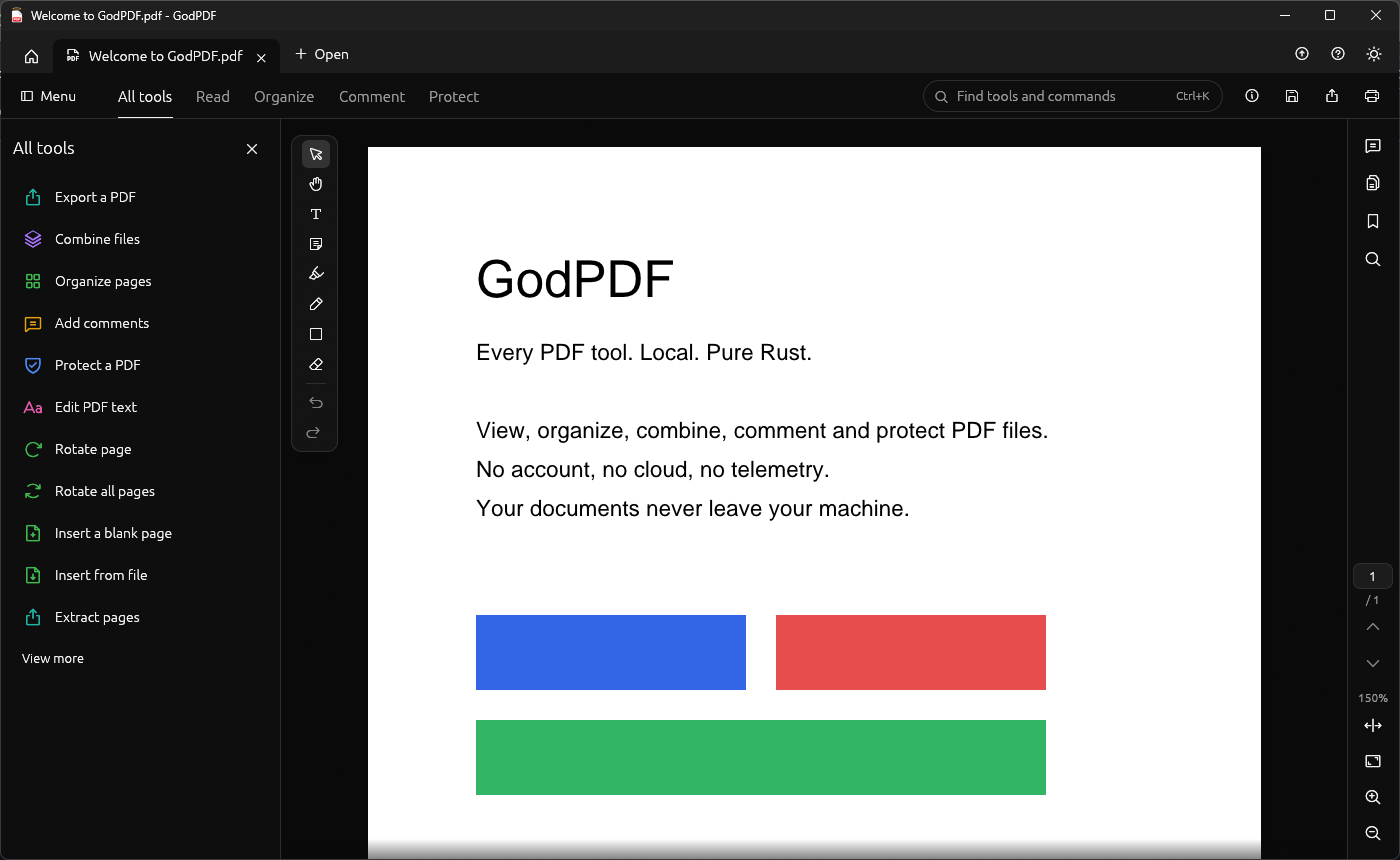
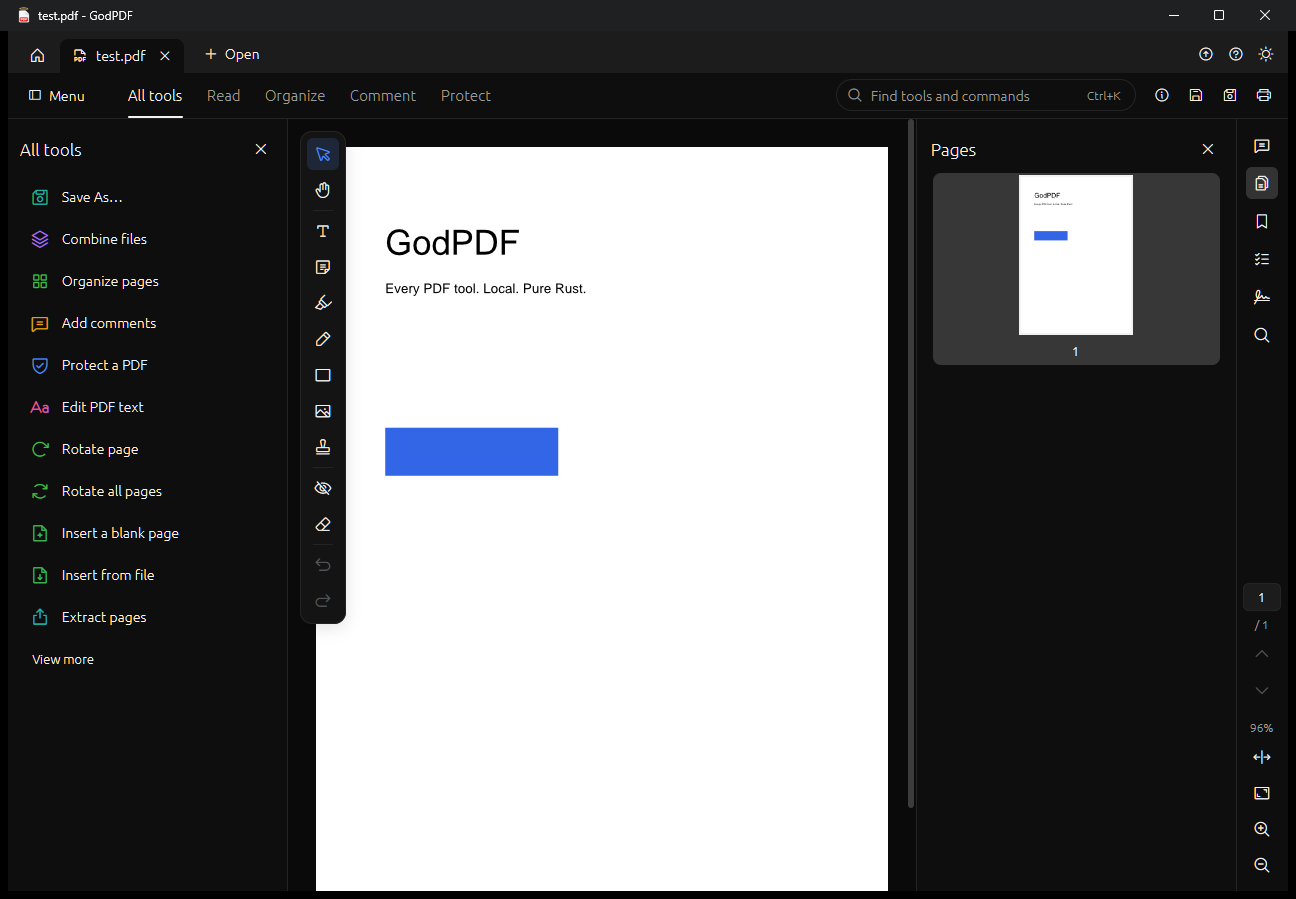
docs: new README and screenshot, version 2.0.0

diff --git a/README.md b/README.md
@@ -1,51 +1,80 @@
-<p align="center"><img src="assets/logo.png" width="160" alt="GodPDF logo"></p>
+<p align="center">
+  <img src="assets/logo.png" width="128" alt="GodPDF logo">
+</p>
 
 <h1 align="center">GodPDF</h1>
-<p align="center">Every PDF tool. Local. Pure Rust.</p>
+
+<p align="center">
+  <b>Every PDF tool. Local. Pure Rust.</b><br>
+  View, edit, sign, organize and protect PDF files on your own machine.
+</p>
+
+<p align="center">
+  <a href="https://github.com/0XLUC4/GodPDF/releases/latest"><img src="https://img.shields.io/github/v/release/0XLUC4/GodPDF?label=release" alt="Latest release"></a>
+  <img src="https://img.shields.io/badge/platforms-Windows%20%7C%20Linux%20%7C%20macOS-lightgrey" alt="Platforms">
+  <img src="https://img.shields.io/badge/license-MIT%20or%20Apache--2.0-blue" alt="License">
+</p>
 
 <p align="center"><img src="docs/screenshot.png" alt="GodPDF with a document open" width="900"></p>
 
-A PDF workbench.
-No account, no cloud, no telemetry: your documents never leave your machine.
+No account, no cloud, no telemetry. Your documents never leave your computer.
 
 ## Download
 
-Windows: get `GodPDF-windows-x64.exe` from the [latest release](https://github.com/0XLUC4/GodPDF/releases/latest).
-It is a single file, nothing to install. It is not signed, so Windows SmartScreen may ask before running it.
-New versions come through the Updates button: it downloads one and restarts on it.
+| Platform | File |
+|----------|------|
+| Windows | `GodPDF-windows-x64.exe` |
+| Linux | `GodPDF-linux-x64.tar.gz` |
+| macOS | `GodPDF-macos-universal.zip` |
+
+Get them from the [latest release](https://github.com/0XLUC4/GodPDF/releases/latest).
+The Windows build is a single file with nothing to install. It is not signed, so SmartScreen may ask before the first run.
+New versions arrive through the Updates button, which downloads the update and restarts the app.
 
 ## Features
 
-- View: tabs, continuous scroll, zoom, thumbnails, bookmarks, search, two documents side by side, dark/light theme
-- Bookmarks: each shows its page and leads there in a click; add one for the page you read (`Ctrl+D`), rename, move, nest, point to another page, delete; one per page in a click
-- Contents page: a first page listing the bookmarks with dots and page numbers, each line a link
-- Large pages: plans in A3 to A0 stay sharp at any zoom
-- Organize: drag-and-drop reorder, rotate one page or all, delete, insert blank or from file, extract, split, reverse, remove blank pages
-- Layout: crop margins, change page size (A3, A4, A5, Letter, Legal), cut pages in half, 2 to 16 pages per sheet, booklet for printing, join into one long page
-- Colours: invert for night reading, greyscale, paper tint
-- Combine: merge any number of PDFs, images (JPEG, PNG) and text files; interleave two PDFs (fronts and backs of a scan)
-- Open a picture or a text file as a PDF
-- Stamp: page numbers (position, format, first number) and watermarks (size, opacity, angle, offset from the centre), upright on turned pages
-- Pictures: put a PNG or JPEG on a page from the tool bar (`I`), at the click or in a dragged box; move and resize it like a comment
-- Sign (Signature panel on the right): draw your signature once (it is kept), then click where it goes; move and resize it
-- Forms: click a field on the page to fill it in (text, check box, radio button, list), or use the Form panel on the right; number boxes get one character per cell; add text fields and check boxes
-- Recognize text (OCR): every page is read, words that are already text are left alone; scans become searchable and their words can be selected, in any language. On Windows the recognizer of the system is used (the languages installed there); elsewhere a model (12 MB) is downloaded on first use
-- Compare two PDFs: lines removed and added on each page, and pages that look different
-- Comment: highlight in fluo colors, sticky note, free text (Helvetica, Times or Courier; bold, italic, underline, subscript, superscript), rectangle, ink; comments can be moved, resized and erased
-- Edit the text of a page, line by line
-- Remove every link of a document, remove every comment, flatten comments and form fields into the page
-- Attached files: add, save, remove
-- Export pages as PNG or JPEG pictures
-- Compress: duplicated fonts and pictures shared, objects packed
-- Protect: open encrypted PDFs, add or remove a password, remove hidden data (properties, scripts, attached files)
-- Tabs: right-click to close the others, reopen the last closed (`Ctrl+Shift+T`), show the file in its folder
-- A file changed by another program is read again
-- Print, document properties, text extraction, undo/redo
-- Command palette (`Ctrl+K`): every tool by name; chosen with nothing open, a tool asks for a file and runs on it
+**Read**
+- Tabs, continuous scroll, zoom, fit width or page, dark and light themes
+- Recent files on the home screen with a preview of their first page
+- Find as in a browser (`Ctrl+F`): every match highlighted, jump from word to word
+- Thumbnails, bookmarks and comments panels, two documents side by side
+- Large plans (A3 to A0) stay sharp at any zoom
+
+**Comment and mark up**
+- Highlight, underline and strike out by selecting the text
+- Text boxes with fonts, bold, italic, underline, subscript and superscript, and a handle to change their width
+- Sticky notes, ink, rectangles, ellipses, lines and arrows, with a fill colour for shapes
+- Stamps: Approved, Draft, Confidential, Rejected, Final, with an optional date
+- Preset colours plus a picker with hex input and recent colours
+- Move, resize, bring to front or send to back, all in real time
+- Eraser for whole comments or for the page content itself
+
+**Edit**
+- Select and copy text with the pointer
+- Change the text of a page line by line
+- Put pictures on a page, move and resize them
+- Sign with a signature drawn once and kept
+- Fill in forms on the page, add text fields and check boxes
+- Redact: remove text, pictures and comments under the marked areas for good
+
+**Organize**
+- Page grid: reorder by drag and drop, rotate, delete, insert blank pages or other files, extract, split, reverse, remove blank pages
+- Combine PDFs, pictures and text files, interleave two scans
+- Crop, change page size, cut pages in half, 2 to 16 pages per sheet, booklets, join into one long page
+- Invert, greyscale or tint the paper
+
+**Protect and share**
+- Open encrypted files, add or remove a password, remove hidden data
+- Page numbers and watermarks
+- Compress, export pages as PNG or JPEG, print
+- Recognize the text of scans (OCR), compare two PDFs, extract the text
+- Attached files, document properties, undo and redo
+
+The command palette (`Ctrl+K`) finds every tool by name.
 
 ## Build
 
-Requires Rust 1.94+.
+Requires Rust 1.94 or newer.
 
 ```sh
 cargo run --release -p godpdf
@@ -54,20 +83,20 @@ cargo run --release -p godpdf
 Linux needs the GPUI system libraries:
 
 ```sh
-sudo apt-get install pkg-config libxkbcommon-dev libxkbcommon-x11-dev libwayland-dev   libvulkan-dev libx11-dev libx11-xcb-dev libxcb1-dev libfontconfig1-dev libfreetype6-dev
+sudo apt-get install pkg-config libxkbcommon-dev libxkbcommon-x11-dev libwayland-dev \
+  libvulkan-dev libx11-dev libx11-xcb-dev libxcb1-dev libfontconfig1-dev libfreetype6-dev
 ```
 
-macOS needs Xcode (GPUI compiles its Metal shaders with it).
-There is no web build: GPUI is native only.
+macOS needs Xcode, which GPUI uses to compile its Metal shaders.
 
 ## Workspace
 
 | Crate | Role |
 |-------|------|
-| `crates/core` (`godpdf-core`) | Editing ops on PDF bytes via `lopdf`, undo/redo session |
-| `crates/render` (`godpdf-render`) | Page rasterization via `hayro` |
-| `crates/app` (`godpdf`) | Desktop app on [GPUI](https://gpui.rs) (Windows, Linux, macOS) |
+| `crates/core` (`godpdf-core`) | PDF editing on raw bytes with `lopdf`, undo and redo |
+| `crates/render` (`godpdf-render`) | Page rendering with `hayro` |
+| `crates/app` (`godpdf`) | Desktop app built with [GPUI](https://gpui.rs) |
 
 ## License
 
-MIT OR Apache-2.0
+Licensed under either of MIT or Apache-2.0, at your option.
